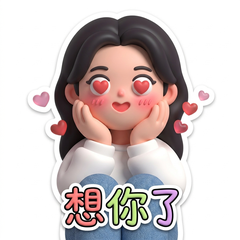
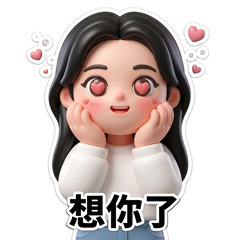
feat: meme-native styles, classic dark captions, circle packs, popularity sort
- 默认文字砍掉彩色变体，只留深色手写/粗黑白边两款经典梗图字（用户拍板）
- 新画风 doodle 团子涂鸦 + shadiao 沙雕手绘（表情包原生审美），门控实图选型：
  运动达人 pop→anime 热血、阴阳大师 lineart→shadiao 沙雕假笑
- 圈层拓宽：程序员（×doodle）+ 游戏党（×anime）两个新主题各 16 梗
- /api/packs 按使用量降序（策展序兜底）——主题人气排序补齐
- 22 张预览全量重生成（9 主题 + 13 画风），新字体新配对，逐张验收

diff --git a/tests/test_webapp.py b/tests/test_webapp.py
@@ -1307,8 +1307,8 @@ def test_pack_default_style_applied(client, tmp_path):
     job_id = resp.json()["job_id"]
     _wait_done(client, job_id)
     meta = _json.loads((tmp_path / job_id / "job.json").read_text())
-    assert meta["style"] == "pop"  # 运动达人 → 波普美漫
-    assert any("波普" in p for p in client.fake_provider.prompts)
+    assert meta["style"] == "anime"  # 运动达人 → 热血日漫
+    assert any("日系动漫" in p for p in client.fake_provider.prompts)
 
 
 def test_explicit_style_beats_pack_default(client, tmp_path):
@@ -1323,3 +1323,17 @@ def test_explicit_style_beats_pack_default(client, tmp_path):
     _wait_done(client, job_id)
     meta = _json.loads((tmp_path / job_id / "job.json").read_text())
     assert meta["style"] == "anime"
+
+
+def test_packs_sorted_by_popularity(client):
+    # 用得多的主题排到最前面；新圈层主题在列表里
+    for _ in range(2):
+        r = client.post(
+            "/api/generate",
+            files={"selfie": ("me.jpg", _selfie_bytes(), "image/jpeg")},
+            data={"pack_id": "ganfan"},
+        )
+        _wait_done(client, r.json()["job_id"])
+    ids = [p["id"] for p in client.get("/api/packs").json()]
+    assert ids[0] == "ganfan"  # 2 次使用 > 其他 0 次
+    assert "chengxuyuan" in ids and "youxidang" in ids

diff --git a/src/mememe/webapp.py b/src/mememe/webapp.py
@@ -686,9 +686,18 @@ def create_app() -> FastAPI:
     def list_packs() -> list[dict]:
         # 公共列表只含官方剧本；定制剧本仅创建者凭链接经 /api/packs/{id} 取
         packs = [_pack_info(p, False) for p in sorted(PACKS_DIR.glob("*.yaml"))]
-        # 旗舰最前，新投稿按字母序殿后
-        order = {"shechu": 0, "qinglv": 1, "maomi": 2, "gouzi": 3, "yinyang": 4, "lianai": 5, "ganfan": 6, "qimo": 7, "hajimi": 8}
-        packs.sort(key=lambda p: (order.get(p["id"], 99), p["id"]))
+        # 人气优先：用得多的主题排前面（与画风弹窗同一套逻辑）；
+        # 平局走策展序（旗舰冷启动在前），新投稿按字母序殿后
+        order = {
+            "shechu": 0, "yundong": 1, "chengxuyuan": 2, "youxidang": 3,
+            "qinglv": 4, "maomi": 5, "gouzi": 6, "yinyang": 7,
+            "lianai": 8, "ganfan": 9, "qimo": 10, "hajimi": 11,
+        }
+        uses: dict[str, int] = {}
+        for job in jobs.values():
+            if job.pack_id:
+                uses[job.pack_id] = uses.get(job.pack_id, 0) + 1
+        packs.sort(key=lambda p: (-uses.get(p["id"], 0), order.get(p["id"], 99), p["id"]))
         return packs
 
     @app.get("/api/packs/{pack_id}")

diff --git a/src/mememe/core/styles.py b/src/mememe/core/styles.py
@@ -77,6 +77,20 @@ STYLES: dict[str, dict] = {
         "block": "欧美街头潮流贴纸风格（sticker bomb）：超厚白色异形描边、高饱和撞色、"
         "乙烯基贴纸光泽高光、微立体投影，像贴在滑板或笔记本上的潮牌贴纸。",
     },
+    "doodle": {
+        "name": "团子涂鸦",
+        "desc": "圆头粗线软团子，微信人气表情包气质",
+        "block": "可爱粗线涂鸦贴纸风格：圆头粗线条勾边、造型极简圆润像软糯的团子、"
+        "明快的平涂色块、豆豆眼波浪嘴等符号化夸张表情，"
+        "微信高人气萌系涂鸦表情包的气质。",
+    },
+    "shadiao": {
+        "name": "沙雕手绘",
+        "desc": "潦草简笔+一点红，土到极致就是潮",
+        "block": "沙雕手绘梗图风格：故意画得潦草的黑色简笔线条、白底、"
+        "五官极简但表情张力拉满，只用红色做零星强调（脸红、爆青筋、生气符号），"
+        "土味幽默、越糙越好笑的网络沙雕画风。",
+    },
 }
 
 CAPTION_STYLES: dict[str, dict] = {

diff --git a/src/mememe/core/compiler.py b/src/mememe/core/compiler.py
@@ -7,11 +7,10 @@ same identity instruction, paired with the same reference photo at call time.
 from mememe.core.schema import Meme, Pack
 from mememe.core.styles import CAPTION_STYLES, STYLES
 
+# 只留深色经典款（用户拍板：彩色字体不好看）；想要彩色走显式 caption_style=cute
 _CAPTION_VARIANTS = [
     "大号中文手写体，字色深、带白色描边，端正居中。",
-    "超粗黑体大字，白色描边外加细黑外框，冲击力强。",
-    "活泼的手写体，字略带倾斜、大小错落，深色带白边。",
-    "圆润的卡通手绘字体，彩色描边，俏皮可爱。",
+    "超粗黑体大字，白色描边外加细黑外框，经典梗图字体，冲击力强。",
 ]
 
 _IDENTITY_BLOCKS = {

diff --git a/experiments/pack_previews.py b/experiments/pack_previews.py
@@ -21,7 +21,10 @@ from mememe.core.schema import load_pack
 
 ROOT = Path(__file__).parent.parent
 DEFAULT_FACE = ROOT / "out" / "demo" / "demo-face-f.png"
-HUMAN_PACKS = ["shechu", "yundong", "yinyang", "lianai", "ganfan", "qimo", "hajimi"]
+HUMAN_PACKS = [
+    "shechu", "yundong", "yinyang", "lianai", "ganfan", "qimo", "hajimi",
+    "chengxuyuan", "youxidang",
+]
 
 
 def _provider_chain():

diff --git a/tests/test_schema.py b/tests/test_schema.py
@@ -113,5 +113,5 @@ def test_pack_style_id_loads_and_defaults_empty():
     from mememe.core.schema import load_pack
 
     root = Path(__file__).parent.parent / "packs"
-    assert load_pack(root / "yundong.yaml").style_id == "pop"
+    assert load_pack(root / "yundong.yaml").style_id == "anime"
     assert load_pack(root / "shechu.yaml").style_id == ""  # 旗舰保持经典贴纸
